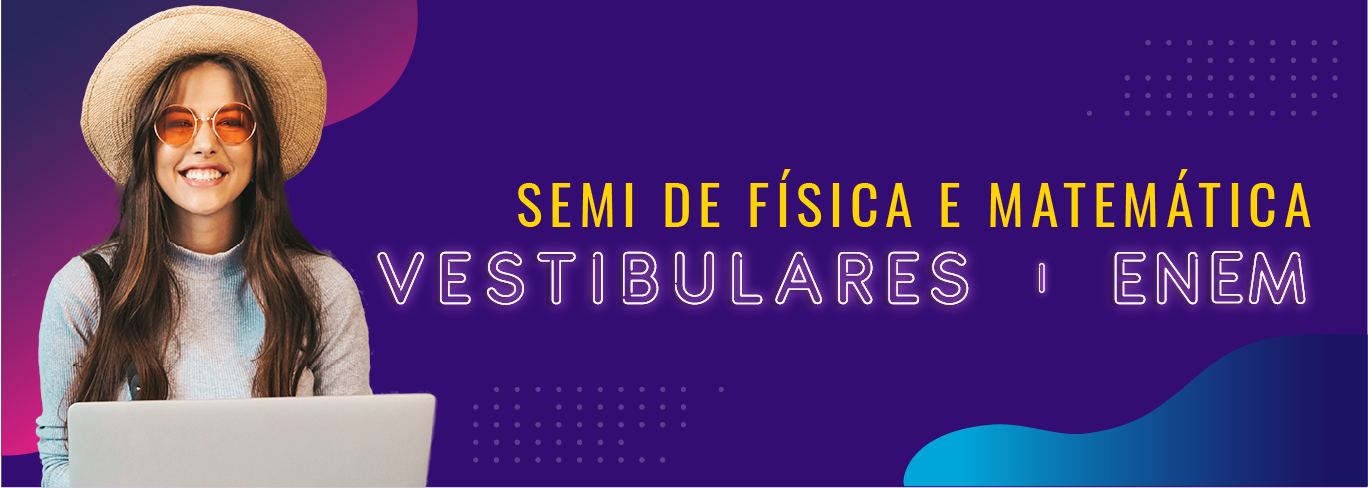
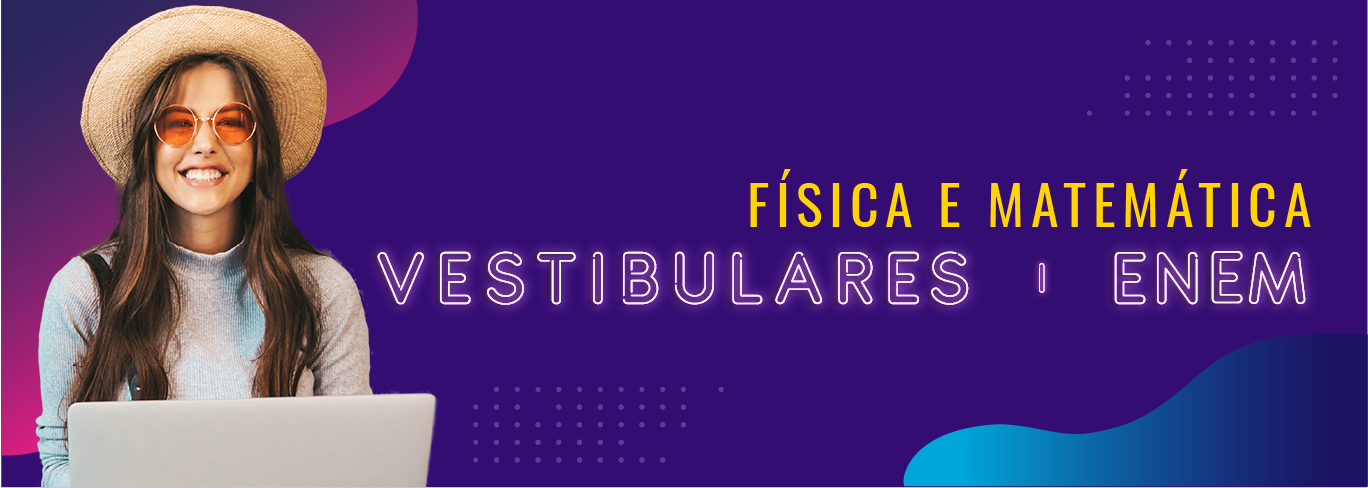
nova_data_de_inicio_tres_parcelas

Changed region(s): [[0.3684, 0.3689, 0.5219, 0.4611]]

diff --git a/index.html b/index.html
@@ -77,7 +77,7 @@
     <div class="espaco-antes-carrosel">
         <div class="container">
             <h1 class="display-4 animate__animated animate__flash home-text-matriculas">MATRÍCULAS ABERTAS</h1>
-            <h2 class="animate__animated animate__flash home-text2-matriculas">INÍCIO DAS AULAS - 03/08/2020</h2>
+            <h2 class="animate__animated animate__flash home-text2-matriculas">INÍCIO DAS AULAS - 05/10/2020</h2>
         </div>
     </div>
     <!--<Carrossel>-->
@@ -102,7 +102,7 @@
     <div class="jumbotron bg-primary" id="sobre">
         <div class="container">
             <p class="lead mar-top text-sobre">
-                <span>O FM CURSINHO ONLINE é 100% ONLINE. Um semi, de física e matemática, focado nos GRANDES VESTIBULARES e no ENEM.</span>
+                <span>O FM CURSINHO ONLINE é 100% ONLINE. Um intensivo, de física e matemática, focado nos GRANDES VESTIBULARES e no ENEM.</span>
                 <br>
                 <br>
                 <span>As aulas são AO VIVO, por videoconferência, de segunda a quinta. Aqui no FM CURSINHO ONLINE, você escolhe o período que prefere assistir às aulas: manhã, tarde ou noite.</span>
@@ -127,7 +127,7 @@
     <!--<Valor>-->
 
     <div class="espaco-valor">
-        <h1 class="animate__animated animate__flash animate__repeat-3 home-text-valor">APENAS 5 MENSALIDADES DE R$50,00</h1>
+        <h1 class="animate__animated animate__flash animate__repeat-3 home-text-valor">APENAS 3 MENSALIDADES DE R$50,00</h1>
     </div>
 
 
@@ -384,7 +384,7 @@
                                 <h2 class="home-title-turno">QUERO ESTUDAR DE MANHÃ</h2>
                                 <!-- INICIO FORMULARIO BOTAO PAGSEGURO: NAO EDITE OS COMANDOS DAS LINHAS ABAIXO -->
                                 <form action="https://pagseguro.uol.com.br/pre-approvals/request.html" method="post">
-                                    <input type="hidden" name="code" value="106FC50CA0A075BCC4C51FA31C7F28A1" />
+                                    <input type="hidden" name="code" value="2EEF49252121EACAA41E4FA98232233F" />
                                     <input type="hidden" name="iot" value="button" />
                                     <input type="image" src="https://stc.pagseguro.uol.com.br/public/img/botoes/assinaturas/209x48-assinar-assina.gif" name="submit" alt="Pague com PagSeguro - É rápido, grátis e seguro!" width="209" height="48" />
                                 </form>
@@ -394,7 +394,7 @@
                                 <h2 class="home-title-turno">QUERO ESTUDAR DE TARDE</h2>
                                 <!-- INICIO FORMULARIO BOTAO PAGSEGURO: NAO EDITE OS COMANDOS DAS LINHAS ABAIXO -->
                                 <form action="https://pagseguro.uol.com.br/pre-approvals/request.html" method="post">
-                                    <input type="hidden" name="code" value="151C2902F3F386522467AF9418FE75B5" />
+                                    <input type="hidden" name="code" value="AF7D97901B1BE62EE4DBAFB5FD0D47E5" />
                                     <input type="hidden" name="iot" value="button" />
                                     <input type="image" src="https://stc.pagseguro.uol.com.br/public/img/botoes/assinaturas/209x48-assinar-assina.gif" name="submit" alt="Pague com PagSeguro - É rápido, grátis e seguro!" width="209" height="48" />
                                 </form>
@@ -404,7 +404,7 @@
                                 <h2 class="home-title-turno">QUERO ESTUDAR DE NOITE</h2>
                                 <!-- INICIO FORMULARIO BOTAO PAGSEGURO: NAO EDITE OS COMANDOS DAS LINHAS ABAIXO -->
                                 <form action="https://pagseguro.uol.com.br/pre-approvals/request.html" method="post">
-                                    <input type="hidden" name="code" value="9BF13C98636318D33499DFA94701F399" />
+                                    <input type="hidden" name="code" value="986EDFBB8484288004EBFF909DDF3A29" />
                                     <input type="hidden" name="iot" value="button" />
                                     <input type="image" src="https://stc.pagseguro.uol.com.br/public/img/botoes/assinaturas/209x48-assinar-assina.gif" name="submit" alt="Pague com PagSeguro - É rápido, grátis e seguro!" width="209" height="48" />
                                 </form>
